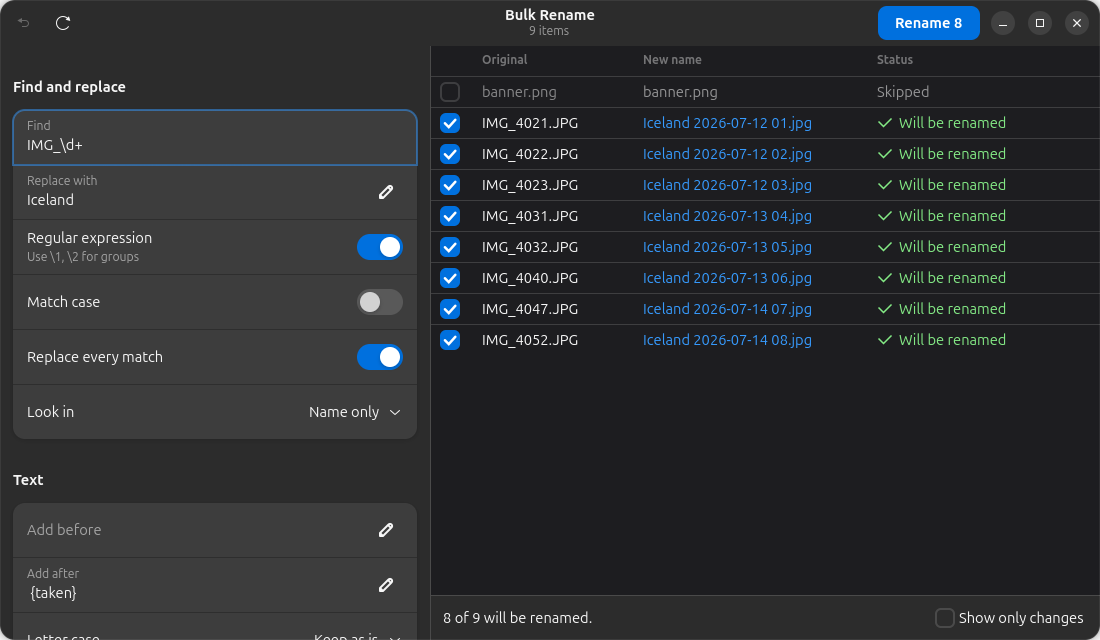
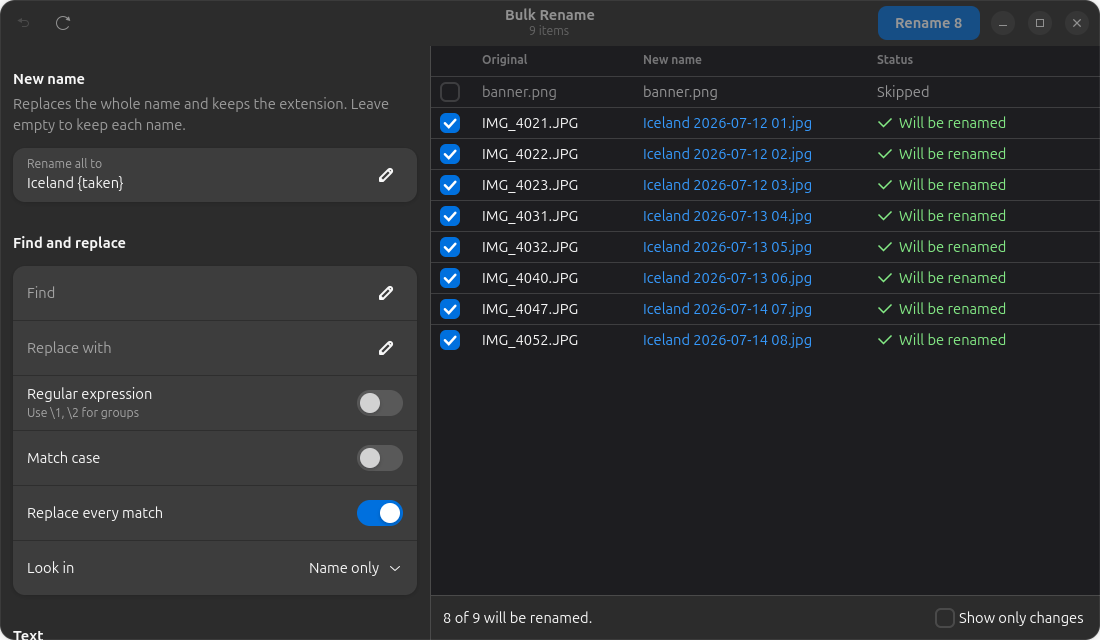
Bulk Rename: add New name to replace the whole name
Typing a new name for several items turns numbering on once so the
names stay different. Version 1.1.0.

diff --git a/spruce/rename_window.py b/spruce/rename_window.py
@@ -45,6 +45,7 @@ class RenameWindow(Adw.ApplicationWindow):
         self.items = [Item(p) for p in dict.fromkeys(paths) if os.path.lexists(p)]
         self.given = list(self.items)
         self._pending = 0
+        self._auto_numbered = False
 
         self.toasts = Adw.ToastOverlay()
         view = Adw.ToolbarView()
@@ -80,6 +81,13 @@ class RenameWindow(Adw.ApplicationWindow):
     def _build_options(self):
         page = Adw.PreferencesPage()
         page.set_size_request(380, -1)
+
+        g = Adw.PreferencesGroup(title='New name', description='Replaces the whole name and keeps the '
+                                 'extension. Leave empty to keep each name.')
+        self.title_entry = Adw.EntryRow(title='Rename all to')
+        self.title_entry.connect('changed', self._on_title)
+        g.add(self.title_entry)
+        page.add(g)
 
         g = Adw.PreferencesGroup(title='Find and replace')
         self.find = Adw.EntryRow(title='Find')
@@ -137,7 +145,8 @@ class RenameWindow(Adw.ApplicationWindow):
         g.add(tokens)
         page.add(g)
 
-        for w in (self.find, self.replace, self.prefix, self.suffix, self.number_separator, self.new_ext,
+        for w in (self.title_entry, self.find, self.replace, self.prefix, self.suffix, self.number_separator,
+                  self.new_ext,
                   self.date_format):
             w.connect('changed', self._changed)
         for w in (self.regex, self.match_case, self.replace_all):
@@ -149,12 +158,22 @@ class RenameWindow(Adw.ApplicationWindow):
         self.number.connect('notify::enable-expansion', self._changed)
         return page
 
+    def _on_title(self, entry):
+        """Typing a new name for several items turns numbering on, once, so
+        the names stay different. Switched off again, it stays off."""
+        text = entry.get_text()
+        if text and not self._auto_numbered and '{n}' not in text \
+                and sum(i.enabled for i in self.items) > 1:
+            self._auto_numbered = True
+            self.number.set_enable_expansion(True)
+
     def _copy_token(self, _row, token):
         self.get_clipboard().set(token)
         self.toasts.add_toast(Adw.Toast(title=f'Copied {token}', timeout=1))
 
     def _reset(self):
-        for w in (self.find, self.replace, self.prefix, self.suffix, self.new_ext):
+        self._auto_numbered = False
+        for w in (self.title_entry, self.find, self.replace, self.prefix, self.suffix, self.new_ext):
             w.set_text('')
         self.number_separator.set_text(' ')
         self.date_format.set_text('%Y-%m-%d')
@@ -173,6 +192,7 @@ class RenameWindow(Adw.ApplicationWindow):
 
     def options(self):
         return Options(
+            title=self.title_entry.get_text(),
             find=self.find.get_text(), replace=self.replace.get_text(),
             regex=self.regex.get_active(), match_case=self.match_case.get_active(),
             replace_all=self.replace_all.get_active(),

diff --git a/spruce/rename.py b/spruce/rename.py
@@ -35,6 +35,7 @@ SORTS = ['name', 'modified', 'taken', 'given']
 
 @dataclass
 class Options:
+    title: str = ''        # replaces the whole name (not the extension)
     find: str = ''
     replace: str = ''
     regex: bool = False
@@ -108,7 +109,7 @@ class Item:
 
 
 def needs_photo(opts):
-    text = opts.find + opts.replace + opts.prefix + opts.suffix + opts.new_ext
+    text = opts.title + opts.find + opts.replace + opts.prefix + opts.suffix + opts.new_ext
     return opts.sort == 'taken' or any(t in text for t in ('{taken}', '{camera}', '{width}', '{height}'))
 
 
@@ -186,6 +187,8 @@ def new_name(item, number, opts, pattern):
     """The new name for one item. pattern is the compiled find pattern or
     None. Raises ValueError for a bad regular expression replacement."""
     stem, ext = item.stem, item.ext
+    if opts.title:
+        stem = _expand(opts.title, item, number, opts)
     if pattern is not None:
         replacement = _expand(opts.replace, item, number, opts, escape=True)
         if not opts.regex:

diff --git a/tests/test_core.py b/tests/test_core.py
@@ -39,6 +39,13 @@ class RenameTest(unittest.TestCase):
         self.assertEqual(self.names('IMG_1.jpg', 'IMG_2.jpg', find='img_', replace='Trip '),
                          ['Trip 1.jpg', 'Trip 2.jpg'])
 
+    def test_new_name(self):
+        self.assertEqual(self.names('DSC1.JPG', 'DSC2.jpg', title='Holiday', number=True, ext_mode='lower'),
+                         ['Holiday 01.jpg', 'Holiday 02.jpg'])
+        self.assertEqual(self.names('b.txt', title='{n}-note', number_start=5, number_padding=1), ['5-note.txt'])
+        items, _ = self.items('c1.txt', 'c2.txt', title='Same')
+        self.assertEqual({i.status for i in items}, {'conflict'})
+
     def test_match_case_and_first_only(self):
         self.assertEqual(self.names('aAa.txt', find='a', replace='b', match_case=True), ['bAb.txt'])
         self.assertEqual(self.names('xaa.txt', find='a', replace='b', replace_all=False), ['xba.txt'])

diff --git a/docs/make-screenshots.py b/docs/make-screenshots.py
@@ -37,7 +37,8 @@ def pump(sec=0.5):
 
 
 def shot(win, name):
-    pump(0.8)
+    win.set_focus(None)  # no half-finished focus animation in the picture
+    pump(1.5)
     w, h = win.get_width(), win.get_height()
     snap = Gtk.Snapshot()
     Gtk.WidgetPaintable.new(win).snapshot(snap, w, h)
@@ -54,12 +55,7 @@ def run(app):
     win = RenameWindow(app, files)
     win.set_default_size(1100, 640)
     win.present()
-    win.find.set_text('IMG_')
-    win.replace.set_text('Iceland ')
-    win.suffix.set_text(' {taken}')
-    win.find.set_text('IMG_\\d+')
-    win.regex.set_active(True)
-    win.replace.set_text('Iceland')
+    win.title_entry.set_text('Iceland {taken}')
     win.number.set_enable_expansion(True)
     win.ext_mode.set_selected(1)
     for item in win.items:

diff --git a/spruce/__init__.py b/spruce/__init__.py
@@ -1,2 +1,2 @@
 """Spruce: batch rename, resize and convert for the Files app."""
-__version__ = '1.0.0'
+__version__ = '1.1.0'

diff --git a/README.md b/README.md
@@ -17,10 +17,11 @@ Files already has its own **Rename…** item for several files. Spruce's is call
 
 ## Bulk Rename
 
-Everything you change shows up straight away in the preview, with the old name, the new name and whether it can be renamed.
+Everything you change shows up straight away in the preview, with the old name, the new name and whether it can be renamed. The steps run in the order of the table below: a new name first, then find and replace, case, added text, numbering and the extension.
 
 | Option | What it does |
 |---|---|
+| New name | Replaces each whole name with your text and keeps the extension, so `IMG_4021.JPG` can become `Holiday 01.JPG`. Typing a name for several items switches on numbering once, so the names stay different |
 | Find and replace | Plain text or a regular expression (use `\1`, `\2` for groups). Choose whether to match case, replace every match or only the first, and whether to look in the name, the extension or both |
 | Add before, Add after | Text added to the start or end of the name |
 | Letter case | lowercase, UPPERCASE, Title Case or Sentence case |
@@ -97,10 +98,10 @@ Spruce has only been tested on Ubuntu 26.04 with GNOME Shell 50.1 and Files 50.
 
 ### With the deb package (recommended)
 
-Download `spruce_1.0.0_all.deb` from the [latest release](https://github.com/webhookstudios/spruce/releases/latest), then install it:
+Download `spruce_1.1.0_all.deb` from the [latest release](https://github.com/webhookstudios/spruce/releases/latest), then install it:
 
 ```bash
-sudo apt install ./spruce_1.0.0_all.deb
+sudo apt install ./spruce_1.1.0_all.deb
 ```
 
 Close Files so it picks up the new options:
